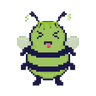
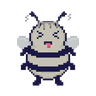
Yucky bee is grey, Bitter a greyish yellow: no green in the parade
Claude-Session: https://claude.ai/code/session_015yU5Zx4fb5oUGBboTMWZMk

diff --git a/tools/content/draw_yucky_bitter.py b/tools/content/draw_yucky_bitter.py
@@ -1,4 +1,4 @@
-# Draws the two bottom-tier bees, Yucky (spoiled honey) and Bitter (a milder Yucky, halfway to Bland), from the 1600px normal-bee master.
+# Draws the two bottom-tier bees, Yucky (spoiled, drained grey) and Bitter (a milder Yucky, halfway to Bland), from the 1600px normal-bee master.
 # Usage: python3 draw_yucky_bitter.py <folder holding keep/assets/bee-normal.png> [out folder]; then resize to 320/144/96 for public/img.
 import sys, colorsys
 from PIL import Image, ImageDraw
@@ -29,29 +29,29 @@ def face_wipe(im):
     d.rectangle([728, 682, 872, 772], fill=F + (255,))                              # mouth
     return d, F
 
-# ---- YUCKY (10): spoiled honey: sickly green, eyes squeezed shut "> <", tongue out, green goo and stink lines
-yuk = recolor(base, body=lambda h, s, v: rgb(0.23, s * 0.62, v * 0.78), wings=lambda h, s, v: rgb(0.25, s * 0.5 + 0.05, v * 0.9))
+# ---- YUCKY (10): spoiled honey: drained grey, eyes squeezed shut "> <", tongue out, green goo and stink lines
+yuk = recolor(base, body=lambda h, s, v: rgb(h, s * 0.10, v * 0.78), wings=lambda h, s, v: rgb(h, s * 0.15, v * 0.85))
 d, F = face_wipe(yuk)
 N = {"x": NAVY}
 rows(d, 615, 512, ["x...", ".xx.", "...x", ".xx.", "x..."], N)          # >
 rows(d, 876, 512, ["...x", ".xx.", "x...", ".xx.", "...x"], N)          # <
 rows(d, 733, 690, ["xxxxx", "xpppx", "..pp."], {"x": NAVY, "p": (232, 92, 128)})   # open mouth, tongue out
 rows(d, 787, 771, ["pp"], {"p": (205, 70, 105)})
-GOO, GOO2 = (140, 190, 40), (95, 140, 25)
+GOO, GOO2 = (150, 146, 138), (110, 106, 100)
 rows(d, 640, 362, ["gggggggggggg", "g.gg..gg.g.g", "g..g...g...g", "h..g...h...h", "...h........"], {"g": GOO, "h": GOO2})
 for (x, y) in ((420, 250), (1130, 230)):
-    rows(d, x, y, [".s", "s.", ".s", "s."], {"s": (150, 200, 80)})
+    rows(d, x, y, [".s", "s.", ".s", "s."], {"s": (150, 150, 155)})
 yuk.save(f"{OUT}/bee-yucky.png")
 
-# ---- BITTER (40): a milder Yucky, halfway to Bland: yellow-green, a queasy squint, one small drip
-bit = recolor(base, body=lambda h, s, v: rgb(0.175, s * 0.58, v * 0.9), wings=lambda h, s, v: rgb(0.3, s * 0.4 + 0.03, v * 0.95))
+# ---- BITTER (40): a milder Yucky, halfway to Bland: greyish yellow, a queasy squint, one small drip
+bit = recolor(base, body=lambda h, s, v: rgb(h, s * 0.32, v * 0.87), wings=lambda h, s, v: rgb(h, s * 0.35, v * 0.9))
 d = ImageDraw.Draw(bit); F = bit.getpixel((800, 640))[:3]
 for x0 in (596, 857): d.rectangle([x0, 496, x0 + 146, 545], fill=F + (255,))       # lids lowered a little: a queasy squint
 for x0 in (602, 863): d.rectangle([x0 + 8, 546, x0 + 126, 546 + U - 1], fill=NAVY + (255,))
 d.rectangle([728, 682, 872, 772], fill=F + (255,))
 rows(d, 733, 700, [".x.x.", "x.x.x"], N)                                          # wobbly, queasy mouth
-GOO, GOO2 = (170, 200, 60), (120, 150, 35)
+GOO, GOO2 = (180, 170, 130), (135, 125, 95)
 rows(d, 720, 362, ["gggggg", "g..g..", "h..g..", "...h.."], {"g": GOO, "h": GOO2})  # one small drip
-rows(d, 1130, 240, [".s", "s.", ".s"], {"s": (170, 205, 100)})                    # a single faint stink line
+rows(d, 1130, 240, [".s", "s.", ".s"], {"s": (165, 162, 150)})                    # a single faint stink line
 bit.save(f"{OUT}/bee-bitter.png")
 print("ok")
